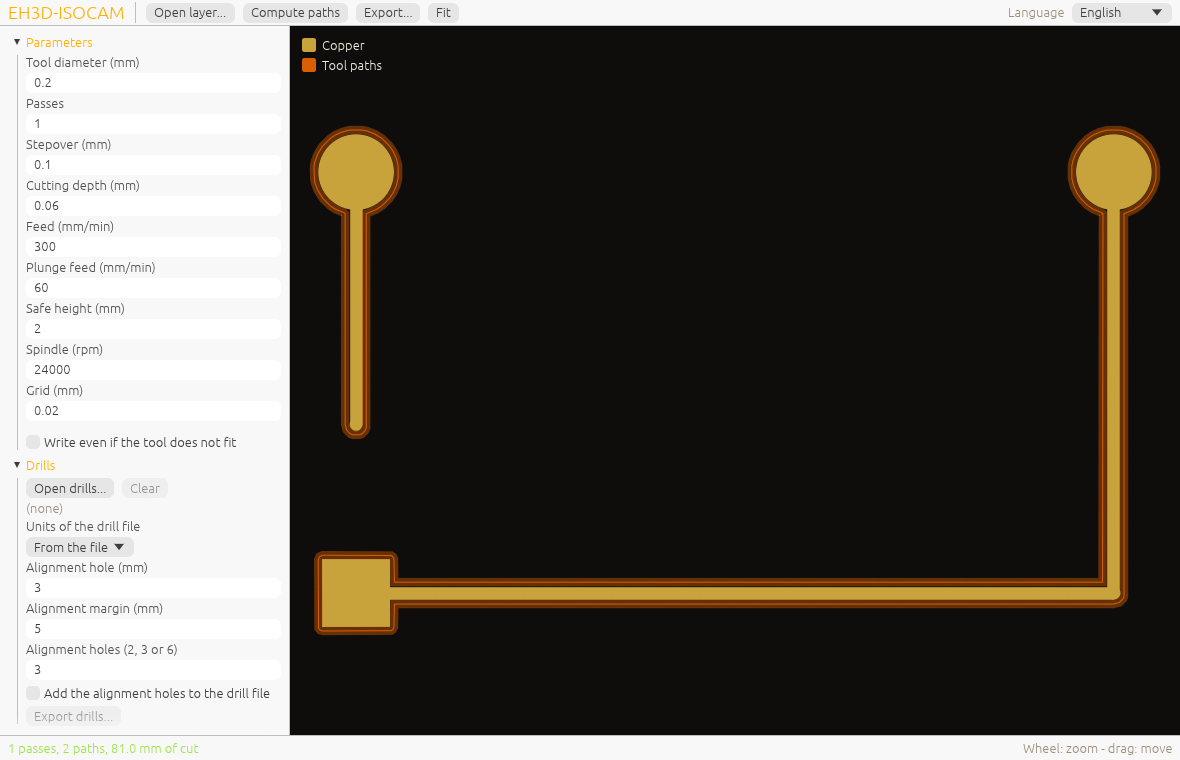
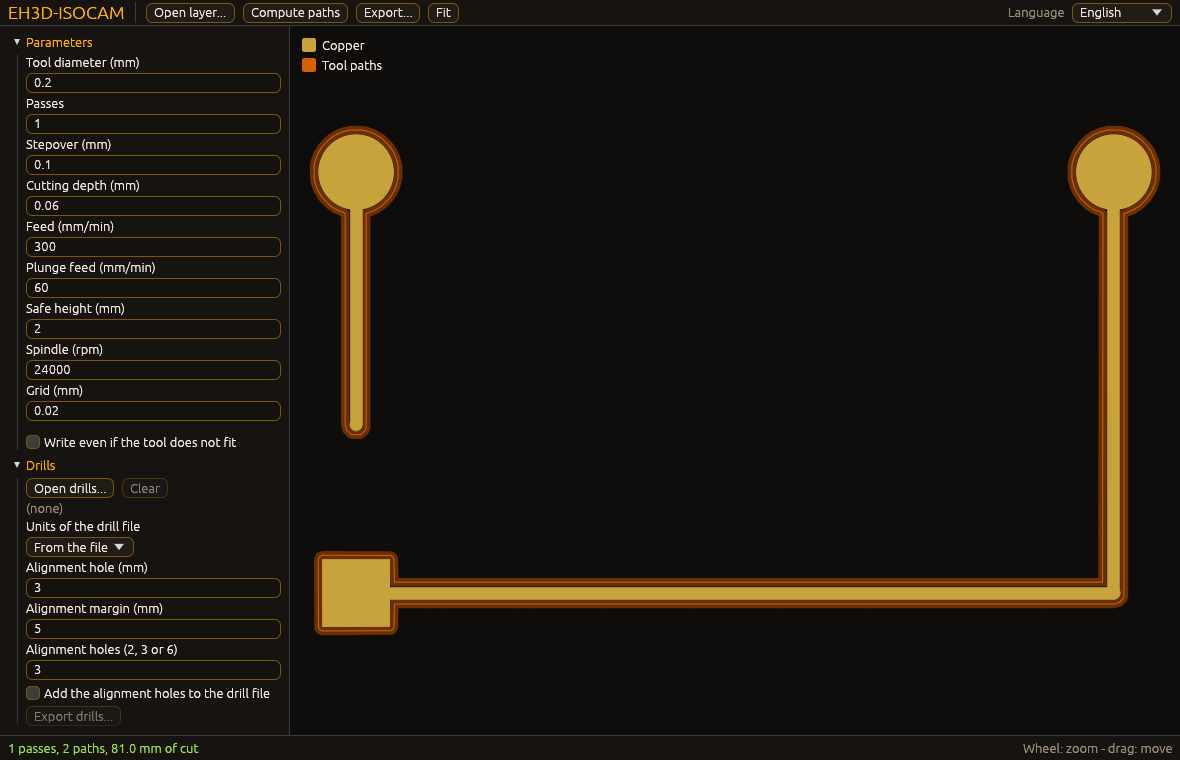
Pin the shared libraries at their new releases (#3)

Changed region(s): [[0.0, 0.0, 1.0, 1.0]]

diff --git a/CHANGELOG.md b/CHANGELOG.md
@@ -4,6 +4,8 @@ All notable changes to this project are documented here.
 
 ## [Unreleased]
 
+- **The pins follow the new releases:** the CI and the release build take `EH3D-COMMON` at `v0.2.1` and `EH3D-CORE-LIBS` at `v0.0.9`, and the manifest asks for `min_common` 0.2.1. The picture of the window in the README is taken again with the program of today.
+
 ## [0.1.0] - Tool crib, width of a V-bit at depth and exit codes
 
 - Tests with a fixed seed read damaged drill files, outlines, settings and tool tables (every cut and many copies with bytes changed) without a panic.
